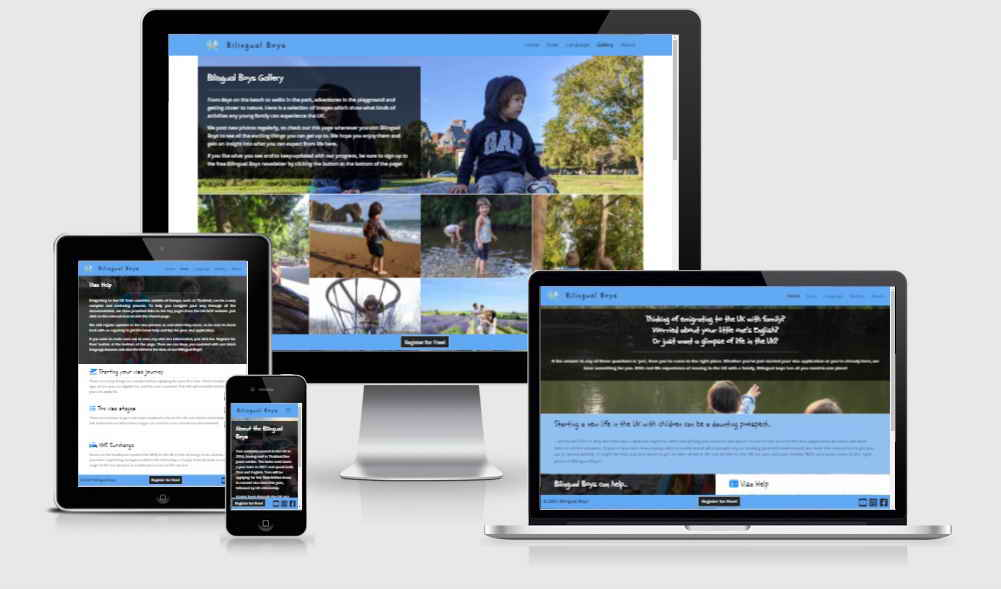
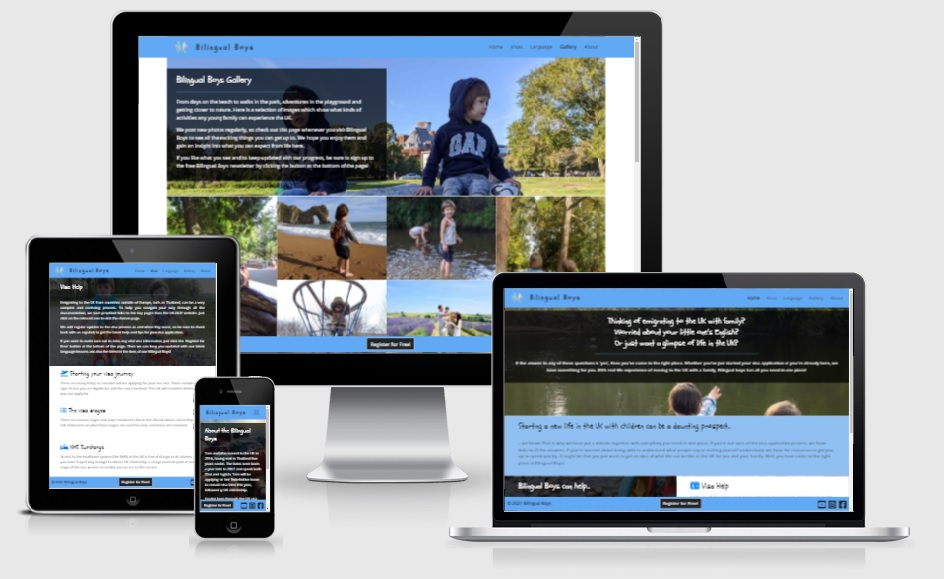
tidy code

diff --git a/index.html b/index.html
@@ -39,8 +39,8 @@
         </div>
     </nav>
     
+    <!--MAIN CONTENT-->
     <div class="container">
-        <!--HERO IMAGE-->
         <section class="hero-outer">
             <div id="index-hero-image"></div>
             <div class="hero-text">
@@ -54,8 +54,6 @@
                 </p>
             </div>
         </section>
-        
-        <!--INFO SECTION-->
         <section id="info-section">
             <h3>Starting a new life in the UK with children can be a daunting prospect...</h3>
             <br>
@@ -63,8 +61,6 @@
             If you're worried about being able to understand what people say or making yourself understood, we have the resources to get you up to speed quickly.
             It might be that you just want to get an idea of what life can be like in the UK for you and your family. Well, you have come to the right place at Bilingual Boys!</p>
         </section>
-
-        <!--RESOURCES-->
         <section class="resource-outer">
             <div class="container-fluid parallax-container">
                 <div class="row no-gutters">
@@ -100,7 +96,6 @@
             </div>    
         </section>
     </div>
-
     <div class="footer-spacer"></div>
 
     <!--FOOTER-->

diff --git a/gallery.html b/gallery.html
@@ -39,8 +39,8 @@
         </div>
     </nav>
     
+    <!--MAIN CONTENT-->
     <div class="container">
-        <!-- HERO-IMAGE -->
         <section id="gallery-hero-outer">
             <div id="gallery-hero-image"></div>
             <div class="hero-text">     
@@ -57,7 +57,6 @@
                 </p>
             </div>
         </section>
-        
         <div id="images">
             <img id="image-1" src="assets/images/gallery/at_the_park_comp.jpg" alt="Twins playing in the park">
             <img id="image-2" src="assets/images/gallery/autumn_leaves_comp.jpg" alt="Twins playing with leaves">
@@ -99,7 +98,6 @@
             <img id="image-29" src="assets/images/gallery/digger_mob.jpg" alt="Twins sitting on a digger">
         </div>
     </div>    
-    
     <div class="footer-spacer"></div>
 
     <!--FOOTER-->

diff --git a/language.html b/language.html
@@ -38,7 +38,8 @@
             </div>
         </div>
     </nav>
-
+    
+    <!--MAIN CONTENT-->
     <div class="container">
         <div class="row no-gutters outer">
             <div class="col-12 col-xl-6 language-page-image">
@@ -96,7 +97,6 @@
             </div>
         </div>
     </div>
-    
     <div class="footer-spacer"></div>
 
     <!--FOOTER-->

diff --git a/visas.html b/visas.html
@@ -39,6 +39,7 @@
         </div>
     </nav>
 
+    <!--MAIN CONTENT-->
     <div class="container">
         <div class="row no-gutters outer">
             <div class="col-12 col-xl-6 visa-page-image">
@@ -90,7 +91,6 @@
             </div>
         </div>
     </div>
-    
     <div class="footer-spacer"></div>
 
     <!--FOOTER-->

diff --git a/about.html b/about.html
@@ -39,6 +39,7 @@
         </div>
     </nav>
 
+    <!--MAIN CONTENT-->
     <div class="container">
         <section id="about-hero-outer">
             <div id="about-hero-image"></div>
@@ -58,7 +59,6 @@
             </div>
         </section>
     </div>   
-    
     <div class="footer-spacer"></div>
 
     <!--FOOTER-->

diff --git a/README.md b/README.md
@@ -1,7 +1,7 @@
 # Bilingual Boys
 **User Centric Frontend Development Milestone Project**
 
-![Main Mockup](https://johnroutledge.github.io/milestone-project-1/assets/images/mockup.png "Main Mockup")
+![Main Mockup](https://johnroutledge.github.io/milestone-project-1/assets/images/mockup.jpg "Main Mockup")
 
 [Link to Live Website](https://johnroutledge.github.io/milestone-project-1/index.html)
 
